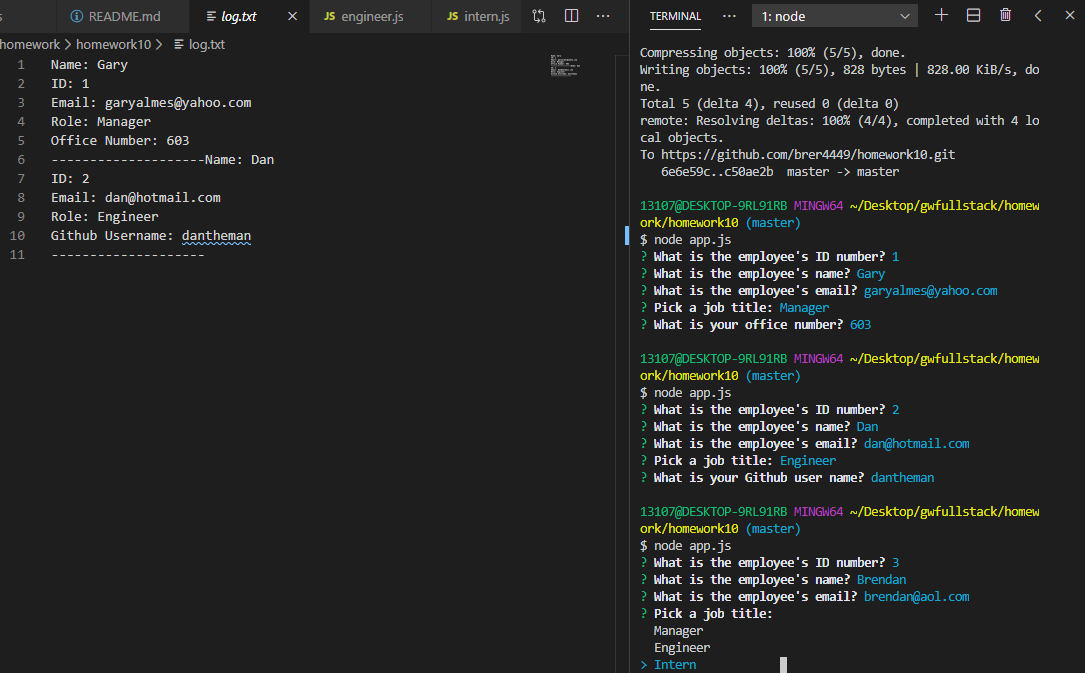
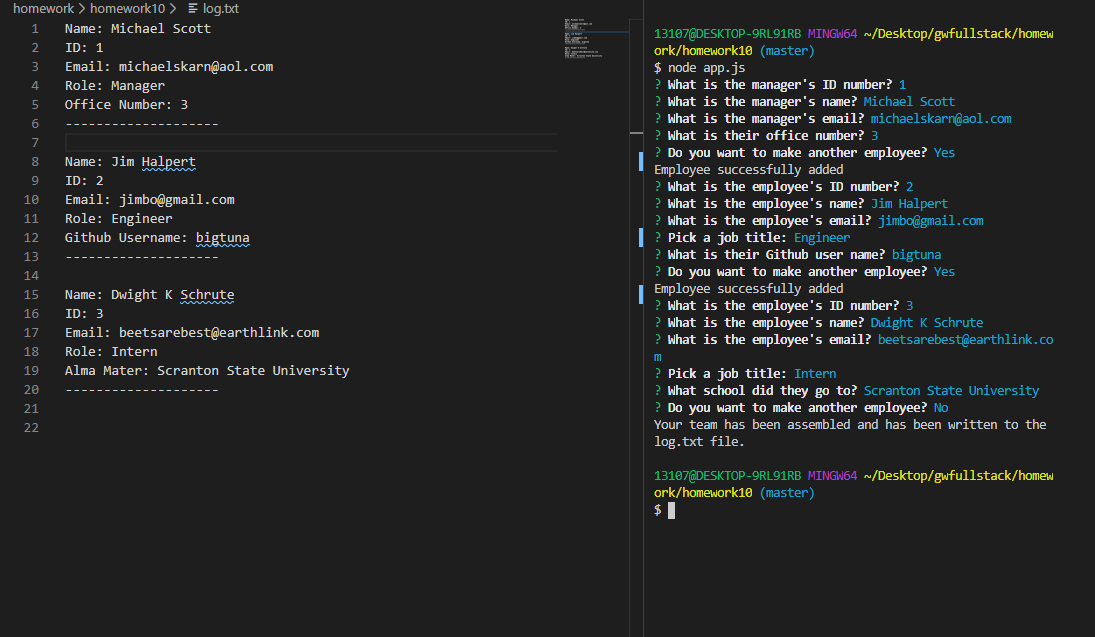
managed to get the manager first. finished!

diff --git a/app.js b/app.js
@@ -25,39 +25,77 @@ const questions = [
   {
     type: "list",
     message: "Pick a job title:",
-    choices: ["Manager", "Engineer", "Intern"],
+    choices: ["Engineer", "Intern"],
     name: "title"
   }
 ];
 
+const managerQuestions = [
+  {
+    type: "input",
+    message: "What is the manager's ID number?",
+    name: "id"
+  },
+  {
+    type: "input",
+    message: "What is the manager's name?",
+    name: "name"
+  },
+  {
+    type: "input",
+    message: "What is the manager's email?",
+    name: "email"
+  },
+  {
+    type: "input",
+    message: "What is their office number?",
+    name: "officeNum"
+  }
+];
+
 questionPrompt = () => {
+  inquirer.prompt(managerQuestions).then(function(managerAnswer) {
+    let newManager = createManager(managerAnswer);
+    let writeData = [
+      `Name: ${newManager.getName()}`,
+      `ID: ${newManager.getId()}`,
+      `Email: ${newManager.getEmail()}`,
+      `Role: ${newManager.getRole()}`,
+      `Office Number: ${newManager.officeNum}`,
+      "-".repeat(20),
+      `\n`
+    ].join("\n");
+    fs.appendFile("log.txt", writeData, err => {
+      if (err) throw err;
+    });
+    exitPrompt();
+  });
+};
+questionPrompt();
+
+//Function to exit series of questions or continue making a team
+exitPrompt = () => {
+  inquirer
+    .prompt({
+      type: "confirm",
+      message: "Do you want to make another employee?",
+      name: "confirmation"
+    })
+    .then(answers => {
+      if (answers.confirmation === false) {
+        return console.log(
+          "Your team has been assembled and has been written to the log.txt file."
+        );
+      } else {
+        console.log("Employee successfully added");
+        employeeQuestions();
+      }
+    });
+};
+
+employeeQuestions = () => {
   inquirer.prompt(questions).then(function(answers) {
     switch (answers.title) {
-      case "Manager":
-        inquirer
-          .prompt([
-            {
-              type: "input",
-              message: "What is their office number?",
-              name: "officeNum"
-            }
-          ])
-          .then(function(managerAnswer) {
-            let newManager = createManager(answers, managerAnswer);
-            let writeData = [
-              `Name: ${newManager.getName()}`,
-              `ID: ${newManager.getId()}`,
-              `Email: ${newManager.getEmail()}`,
-              `Role: ${newManager.getRole()}`,
-              `Office Number: ${newManager.officeNum}`,
-              "-".repeat(20)
-            ].join("\n");
-            fs.appendFile("log.txt", writeData, err => {
-              if (err) throw err;
-            });
-            exitPrompt();
-          });
-        break;
       case "Engineer":
         inquirer
           .prompt([
@@ -75,7 +113,8 @@ questionPrompt = () => {
               `Email: ${newEngineer.getEmail()}`,
               `Role: ${newEngineer.getRole()}`,
               `Github Username: ${newEngineer.getGithub()}`,
-              "-".repeat(20)
+              "-".repeat(20),
+              `\n`
             ].join("\n");
             fs.appendFile("log.txt", writeData, err => {
               if (err) throw err;
@@ -100,7 +139,8 @@ questionPrompt = () => {
               `Email: ${newIntern.getEmail()}`,
               `Role: ${newIntern.getRole()}`,
               `Alma Mater: ${newIntern.getSchool()}`,
-              "-".repeat(20)
+              "-".repeat(20),
+              `\n`
             ].join("\n");
             fs.appendFile("log.txt", writeData, err => {
               if (err) throw err;
@@ -113,34 +153,13 @@ questionPrompt = () => {
     }
   });
 };
-questionPrompt();
 
-//Function to exit series of questions
-exitPrompt = () => {
-  inquirer
-    .prompt({
-      type: "confirm",
-      message: "Do you want to make another employee?",
-      name: "confirmation"
-    })
-    .then(answers => {
-      if (answers.confirmation === false) {
-        return console.log(
-          "Your team has been assembled and has been written to the log.txt file."
-        );
-      } else {
-        console.log("Employee successfully added");
-        questionPrompt();
-      }
-      // console.log(answers.confirmation);
-    });
-};
 //Functions to get user input and then return it to CLI
-let createManager = (answers, managerAnswer) => {
+let createManager = managerAnswer => {
   let newManager = new Manager(
-    answers.id,
-    answers.name,
-    answers.email,
+    managerAnswer.id,
+    managerAnswer.name,
+    managerAnswer.email,
     managerAnswer.officeNum
   );
   return newManager;
